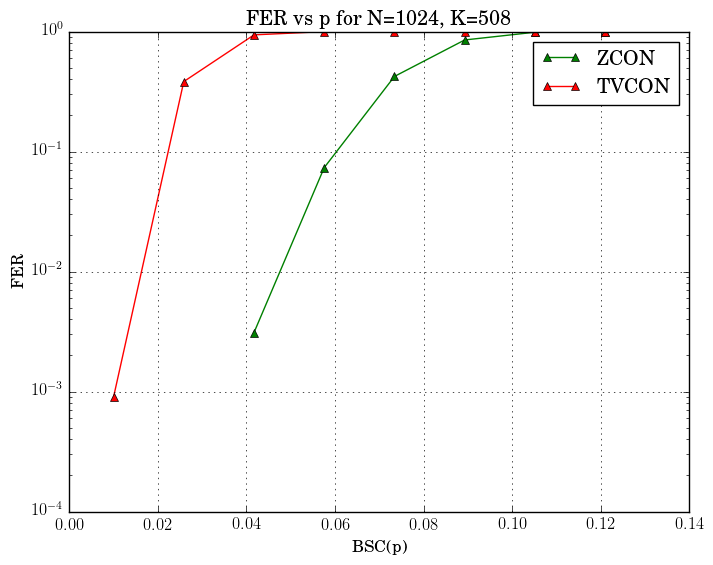
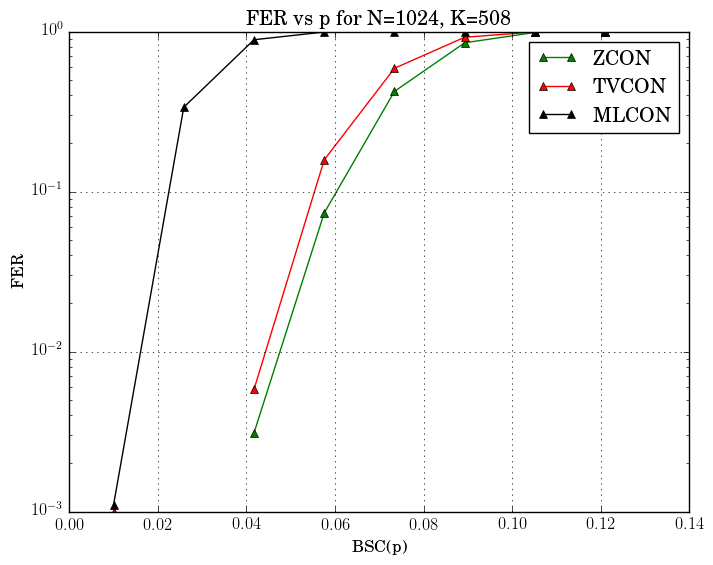
daily-autogit

diff --git a/Polar-slepian/V_19/FRplotter.py b/Polar-slepian/V_19/FRplotter.py
@@ -28,6 +28,7 @@ FR5="./simresults/polarchannel_FERvsp_FR76in1024_18-03-31_21-09-55.txt"
 FR6="./simresults/polarchannel_FERvsp_FRTV508in1024_18-04-13_23-15-53.txt"
 FR6="./simresults/polarchannel_FERvsp_FRTV508in1024_18-04-14_19-30-01.txt"
 FR6="./simresults/polarchannel_FERvsp_FRTV508in1024_18-04-14_22-14-20.txt"
+FR7="./simresults/polarchannel_FERvsp_FRMC508in1024_18-04-16_16-50-59.txt"
 fig=plt.figure()
 N=1024
 
@@ -40,6 +41,10 @@ plt.semilogy(lines[0],[10**i for i in lines[1]],'-^g',label="ZCON")
 lines=ml.getline(FR6,[x,z])
 point=len(lines[0])
 plt.semilogy(lines[0],[10**i for i in lines[1]],'-^r',label="TVCON") 
+(x,z)=(6,7)
+lines=ml.getline(FR7,[x,z])
+point=len(lines[0])
+plt.semilogy(lines[0],[10**i for i in lines[1]],'-^k',label="MLCON") 
 #~ lines=ml.getline(FR2,[x,z])
 #~ point=len(lines[0])
 #~ plt.semilogy(lines[0],[10**i for i in lines[1]],':r') 
